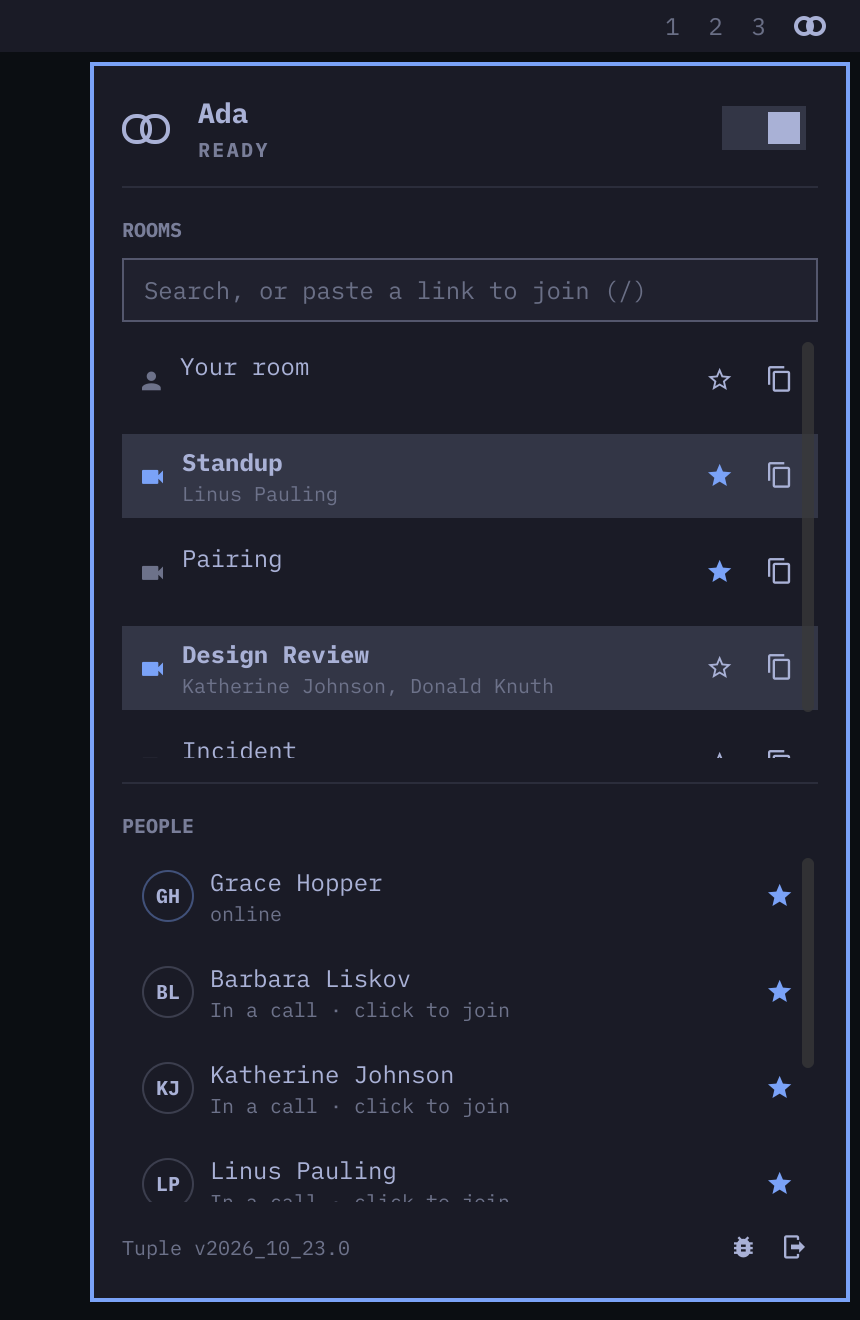
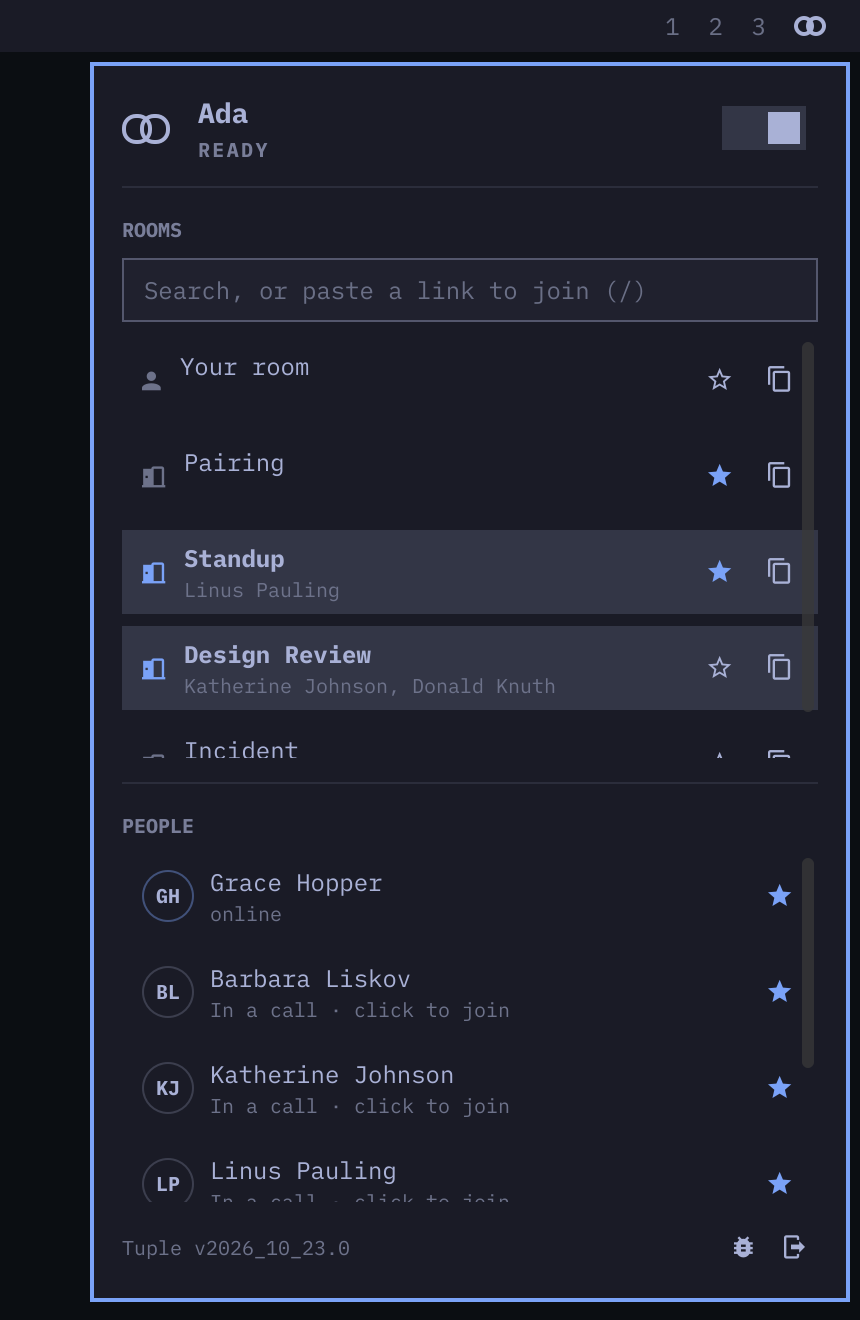
Show rooms with an open door instead of a camera
A camera read as video, not as a place you join. The open door is filled like
the panel's other glyphs and stays a Nerd Font glyph, so it follows the theme.
Your personal room keeps its person icon. Preview and in-call screenshot
re-rendered. Closes #10.

Claude-Session: https://claude.ai/code/session_018VLFLgw9fDQC2b7icuXN5Z

diff --git a/Panel.qml b/Panel.qml
@@ -756,7 +756,7 @@ Panel {
       spacing: Style.space(8)
 
       Text {
-        text: roomRow.room && roomRow.room.personal ? "\u{f0004}" : "\u{f0567}"
+        text: roomRow.room && roomRow.room.personal ? "\u{f0004}" : "\u{f081c}"
         color: roomRow.room && roomRow.room.active ? root.accent : root.dim
         font.family: root.fontFamily
         font.pixelSize: Style.font.icon
